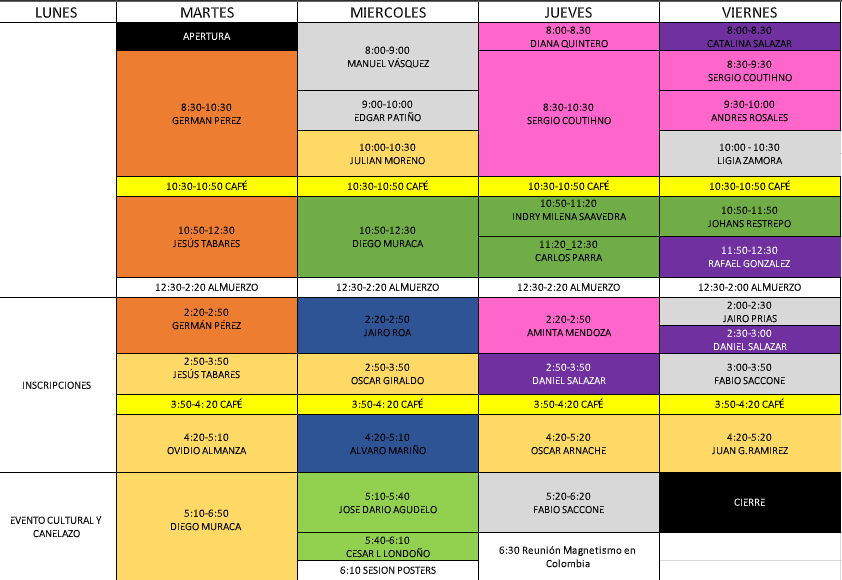
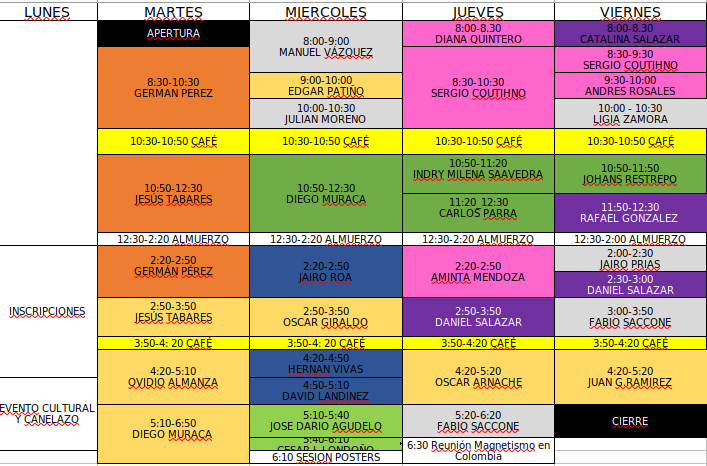
cmbios finales

diff --git a/conferencistas.html b/conferencistas.html
@@ -40,24 +40,29 @@
       <li>Diego Muraca, Universidade Estadual de Campinas, Campinas, Brasil.</li>
       <li>Fabio Saccone, Universidad de Buenos Aires, Argentina.</li>
       <li>Jairo Sinova, Instituto de Física Universidad Johannes Gutenberg, Mainz. Alemania. (Por confirmar, Virtual)</li>
-      <li>Julián Moreno Garcia, Seagate Technology, Irlanda, Reino Unido. (Virtual)</li>
+      <li>Julián Moreno Garcia, Seagate Technology, Irlanda del Norte, Reino Unido. (Virtual)</li>
       <li>Manuel Vázquez, Instituto de Ciencia de Materiales de Madrid (ICMM – CSIC), España. Conferencista distinguido 2023 de la IEEE-Magnetismo. (Virtual)</li>
-      <li>Roberto Zysler, Centro Atómico Bariloche, San Carlos, Argentina.</li>
       <li>Sergio G. Coutinho, Universidade Federal de Pernambuco, UFPe, Recife, Brasil. (Virtual)</li>      
     </ul>
     <p>Conferencistas nacionales:</p>
     <ul> 
       <li>Alvaro Mariño, Universidad Nacional de Colombia, Sede Bogotá.</li>
       <li>Aminta Mendoza, Universidad Nacional de Colombia, Sede Bogotá.</li>
+      <li>Andrés Rosales, Universidad Nacional de Colombia, Sede Manizalez.</li>
       <li>Carlos Parra, Universidad Pedagógica y Tecnológica de Colombia, Tunja.</li>
+      <li>César Leandro Londoño Calderón, Universidad Autónoma de Manizales. </li>
+      <li>David Landinez, Universidad Nacional de Colombia, Sede Bogotá.</li>
       <li>Edgar Patiño, Universidad de los Andes, Bogotá.</li>
       <li>Germán A. Pérez Alcázar, Universidad del Valle, Cali.</li>
+      <li>Hernan Vivas, Universidad Nacional de Colombia, Sede Manizalez.</li>
       <li>Indry Milena Saavedra, Universidad Pedagógica y Tecnológica de Colombia, Tunja.  </li>
       <li>Jairo Roa, Universidad Nacional de Colombia, Sede Bogotá. (Virtual)</li>
       <li>Jesús A. Tabares, Universidad del Valle, Cali.</li>
       <li>Jhon J. Prias, Universidad del Quindío, Armenia.</li>
       <li>Johans Restrepo, Universidad de Antioquia, Medellín.</li>
+      <li>José Darío Agudelo, Universidad Autónoma de Manizales. </li>
       <li>Juan G. Ramírez, Universidad de los Andes, Bogotá.</li>
+      <li>Ligia Zamora, Universidad del Valle, Cali.</li>
       <li>Oscar A. Arnache, Universidad de Antioquia, Medellín.</li>
       <li>Oscar H. Giraldo, Universidad Nacional de Colombia, Sede Manizales.</li>
       <li>Ovidio Almanza, Universidad Nacional de Colombia, Sede Bogotá.</li>
